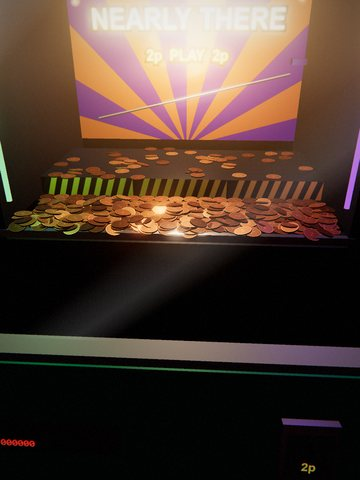
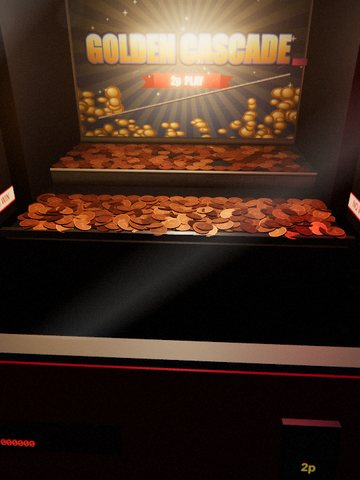
Any Second Now: a steel pusher and a printed backboard
The hazard stripes are gone: the shelf is brushed stainless steel with
scuffs, a dent or two and grime along the bottom, a rolled nose along its
edge and a worn plate on top, and nothing on it moves but the shelf. The
backboard is now glossy printed artwork in a metal frame: a deep sky, a
soft burst of light, painted heaps of treasure, the machine's name in fat
gold letters with an outline and a shadow, a "2p PLAY" ribbon, sparkles,
the print's dot screen, faded and grubby at the edges. The bulbs above it
are real little bulbs in sockets with a soft glow.

diff --git a/web/scenes/dream/pusher.js b/web/scenes/dream/pusher.js
@@ -189,11 +189,18 @@ export function createPusherScene({ mobile, seed }) {
   add(new THREE.BoxGeometry(W, 0.16, 0.01), new THREE.MeshStandardMaterial({ color: '#141418', metalness: 0.5, roughness: 0.5 }), 0, -0.09, ZEDGE + 0.012);
   // the shelf
   const shelf = new THREE.Group(); S.add(shelf);
-  const shelfTop = add(new THREE.BoxGeometry(W, H1, SHELF_D), new THREE.MeshStandardMaterial({ color: '#2a2832', metalness: 0.6, roughness: 0.4 }), 0, H1 / 2, -SHELF_D / 2, shelf);
-  const stripeTex = canvasTexture(S, 256, 32, (g, w, h) => { for (let k = 0; k < 16; k++) { g.fillStyle = k % 2 ? '#ffd040' : '#202024'; g.beginPath(); g.moveTo(k * 16, h); g.lineTo(k * 16 + 16, h); g.lineTo(k * 16 + 32, 0); g.lineTo(k * 16 + 16, 0); g.fill(); } });
-  stripeTex.wrapS = THREE.RepeatWrapping; stripeTex.repeat.set(3, 1);
-  const face = add(new THREE.PlaneGeometry(W, H1), new THREE.MeshStandardMaterial({ map: stripeTex, metalness: 0.3, roughness: 0.5, emissive: '#3a2a00', emissiveMap: stripeTex }), 0, H1 / 2, 0.0005, shelf);
-  void shelfTop; void face;
+  // the pusher: brushed stainless steel, years of coins dragged across it (scuffs, a dent or two, grime along the bottom)
+  const steelTex = canvasTexture(S, 1024, 96, (g, w, h) => {
+    g.fillStyle = '#a4a6ac'; g.fillRect(0, 0, w, h);
+    for (let k = 0; k < 2600; k++) { const v = Math.random() < 0.5 ? 255 : 0; g.fillStyle = `rgba(${v},${v},${v},${0.03 + Math.random() * 0.06})`; g.fillRect(Math.random() * w, Math.random() * h, 30 + Math.random() * 200, 1); }
+    for (let k = 0; k < 40; k++) { g.strokeStyle = `rgba(40,36,30,${0.08 + Math.random() * 0.15})`; g.lineWidth = 1; g.beginPath(); const x = Math.random() * w, y = Math.random() * h; g.moveTo(x, y); g.lineTo(x + (Math.random() - 0.3) * 60, y + (Math.random() - 0.5) * 8); g.stroke(); }
+    for (let k = 0; k < 4; k++) { const x = Math.random() * w, y = h * (0.3 + Math.random() * 0.4); const gr = g.createRadialGradient(x - 3, y - 3, 1, x, y, 12); gr.addColorStop(0, 'rgba(255,255,255,.25)'); gr.addColorStop(0.6, 'rgba(0,0,0,.18)'); gr.addColorStop(1, 'rgba(0,0,0,0)'); g.fillStyle = gr; g.fillRect(x - 14, y - 14, 28, 28); }
+    const gr = g.createLinearGradient(0, h * 0.55, 0, h); gr.addColorStop(0, 'rgba(60,40,20,0)'); gr.addColorStop(1, 'rgba(60,40,20,.55)'); g.fillStyle = gr; g.fillRect(0, 0, w, h);
+  });
+  const steel = new THREE.MeshStandardMaterial({ color: '#ffffff', map: steelTex, metalness: 0.9, roughness: 0.36, envMapIntensity: 0.9 });
+  const steelTopTex = S.keep(steelTex.clone()); steelTopTex.needsUpdate = true; steelTopTex.wrapS = steelTopTex.wrapT = THREE.RepeatWrapping; steelTopTex.repeat.set(1, 3);
+  add(new THREE.BoxGeometry(W, H1, SHELF_D), [steel, steel, new THREE.MeshStandardMaterial({ color: '#8a8c92', map: steelTopTex, metalness: 0.85, roughness: 0.42, envMapIntensity: 0.7 }), steel, steel, steel], 0, H1 / 2, -SHELF_D / 2, shelf);
+  const nose = add(new THREE.CylinderGeometry(0.0035, 0.0035, W, 12), steel, 0, H1 - 0.0035, 0.0005, shelf); nose.rotation.z = Math.PI / 2;
   // side walls with neon tubes; the gutters (dark slots at the front corners, where the house's share goes)
   const noWinM = new THREE.MeshStandardMaterial({ map: canvasTexture(S, 256, 64, (g, w, h) => { g.fillStyle = '#f2ece0'; g.fillRect(0, 0, w, h); g.fillStyle = '#c81e2a'; g.fillRect(0, 0, w, 6); g.fillRect(0, h - 6, w, 6); g.font = 'bold 40px sans-serif'; g.textAlign = 'center'; g.textBaseline = 'middle'; g.fillText('NO WIN', w / 2, h / 2 + 2); }), roughness: 0.7, emissive: '#ffffff', emissiveIntensity: 0.08 });
   noWinM.emissiveMap = noWinM.map;
@@ -211,13 +218,37 @@ export function createPusherScene({ mobile, seed }) {
   // the backboard: a sunburst, the machine's name, a ring of bulbs
   const NAMES = ['GOLDEN CASCADE', 'PENNY TOWER', 'TREASURE TIDE', 'COPPER COAST', 'MEGA PUSH', 'LUCKY LEDGE', 'THE BIG DROP', 'NEARLY THERE'];
   const mname = pick(NAMES), sun = pick([['#c81e3a', '#ffcf3a'], ['#1e5ac8', '#ffd84a'], ['#7a1ec8', '#ff8a3a']]);
-  const boardTex = canvasTexture(S, 512, 320, (g, w, h) => {
-    for (let k = 0; k < 24; k++) { const a0 = (k / 24) * TAU, a1 = ((k + 1) / 24) * TAU; g.fillStyle = k % 2 ? sun[0] : sun[1]; g.beginPath(); g.moveTo(w / 2, h * 1.05); g.arc(w / 2, h * 1.05, w * 1.2, a0, a1); g.fill(); }
-    g.fillStyle = 'rgba(0,0,0,.35)'; g.fillRect(0, 0, w, h);
-    g.font = 'bold 54px sans-serif'; g.textAlign = 'center'; g.lineWidth = 10; g.strokeStyle = '#2a0a10'; g.strokeText(mname, w / 2, 90); g.fillStyle = '#fff4d0'; g.fillText(mname, w / 2, 90);
-    g.font = 'bold 30px sans-serif'; g.strokeText('2p  PLAY  2p', w / 2, 150); g.fillStyle = '#ffd84a'; g.fillText('2p  PLAY  2p', w / 2, 150);
+  // printed artwork on a glossy panel, a bit faded and grubby from years in the arcade: a deep sky, a soft burst of
+  // light, a heap of painted treasure, the name in fat gold letters, a ribbon, sparkles
+  const BG = { '#c81e3a': ['#2a0612', '#6a1024'], '#1e5ac8': ['#06122e', '#143a7a'], '#7a1ec8': ['#14062a', '#3e1270'] }[sun[0]];
+  const FONT = "Impact, 'Arial Black', sans-serif";
+  const boardTex = canvasTexture(S, 1024, 640, (g, w, h) => {
+    const bg = g.createLinearGradient(0, 0, 0, h); bg.addColorStop(0, BG[0]); bg.addColorStop(1, BG[1]); g.fillStyle = bg; g.fillRect(0, 0, w, h);
+    g.globalAlpha = 0.12; for (let k = 0; k < 32; k++) { const a0 = (k / 32) * TAU, a1 = ((k + 0.5) / 32) * TAU; g.fillStyle = sun[1]; g.beginPath(); g.moveTo(w / 2, h * 0.42); g.arc(w / 2, h * 0.42, w, a0, a1); g.fill(); } g.globalAlpha = 1;
+    const glow = g.createRadialGradient(w / 2, h * 0.42, 10, w / 2, h * 0.42, w * 0.45); glow.addColorStop(0, 'rgba(255,220,140,.35)'); glow.addColorStop(1, 'rgba(255,220,140,0)'); g.fillStyle = glow; g.fillRect(0, 0, w, h);
+    for (let y = 8; y < h; y += 14) for (let x = 8 + (y % 28 ? 7 : 0); x < w; x += 14) { g.fillStyle = 'rgba(255,255,255,.035)'; g.beginPath(); g.arc(x, y, 2.2, 0, TAU); g.fill(); }
+    const coin = (x, y, r, tilt) => { g.save(); g.translate(x, y); g.scale(1, tilt); const cg = g.createRadialGradient(-r * 0.35, -r * 0.35, r * 0.1, 0, 0, r); cg.addColorStop(0, '#fff2b8'); cg.addColorStop(0.45, '#e8b040'); cg.addColorStop(1, '#8a5a14'); g.fillStyle = cg; g.beginPath(); g.arc(0, 0, r, 0, TAU); g.fill(); g.strokeStyle = 'rgba(80,40,0,.6)'; g.lineWidth = r * 0.12; g.beginPath(); g.arc(0, 0, r * 0.78, 0, TAU); g.stroke(); g.restore(); };
+    for (let k = 0; k < 70; k++) { const side = k % 2 ? 1 : -1, x = w / 2 + side * (w * 0.26 + Math.random() * w * 0.26), y = h * (0.66 + Math.random() * 0.36); coin(x, y, 18 + Math.random() * 22, 0.45 + Math.random() * 0.5); }
+    for (let k = 0; k < 40; k++) coin(w * (0.15 + Math.random() * 0.7), h * (0.86 + Math.random() * 0.16), 16 + Math.random() * 18, 0.4 + Math.random() * 0.3);
+    let fs = 132; g.font = `900 ${fs}px ${FONT}`; while (g.measureText(mname).width > w * 0.9 && fs > 60) { fs -= 4; g.font = `900 ${fs}px ${FONT}`; }
+    g.textAlign = 'center'; g.textBaseline = 'middle'; const ty = h * 0.4;
+    g.fillStyle = 'rgba(0,0,0,.55)'; g.fillText(mname, w / 2 + 8, ty + 10);
+    g.lineJoin = 'round'; g.lineWidth = 22; g.strokeStyle = '#1a0a04'; g.strokeText(mname, w / 2, ty);
+    g.lineWidth = 10; g.strokeStyle = sun[0]; g.strokeText(mname, w / 2, ty);
+    const gold = g.createLinearGradient(0, ty - fs / 2, 0, ty + fs / 2); gold.addColorStop(0, '#fffbe0'); gold.addColorStop(0.35, '#ffd860'); gold.addColorStop(0.6, '#e09a20'); gold.addColorStop(1, '#a8600c'); g.fillStyle = gold; g.fillText(mname, w / 2, ty);
+    g.save(); g.beginPath(); g.rect(0, ty - fs / 2, w, fs * 0.28); g.clip(); g.fillStyle = 'rgba(255,255,255,.35)'; g.fillText(mname, w / 2, ty); g.restore();
+    const ry = h * 0.6, rw = 300; g.fillStyle = '#8a0c18';
+    for (const sx of [-1, 1]) { g.beginPath(); g.moveTo(w / 2 + sx * (rw / 2 - 20), ry - 28); g.lineTo(w / 2 + sx * (rw / 2 + 60), ry - 22); g.lineTo(w / 2 + sx * (rw / 2 + 36), ry + 4); g.lineTo(w / 2 + sx * (rw / 2 + 60), ry + 30); g.lineTo(w / 2 + sx * (rw / 2 - 20), ry + 26); g.fill(); }
+    const rg = g.createLinearGradient(0, ry - 34, 0, ry + 34); rg.addColorStop(0, '#f0303c'); rg.addColorStop(1, '#a01020'); g.fillStyle = rg; g.fillRect(w / 2 - rw / 2, ry - 34, rw, 62);
+    g.font = `900 46px ${FONT}`; g.lineWidth = 6; g.strokeStyle = '#4a0408'; g.strokeText('2p  PLAY', w / 2, ry - 2); g.fillStyle = '#fff4d8'; g.fillText('2p  PLAY', w / 2, ry - 2);
+    for (let k = 0; k < 26; k++) { const x = Math.random() * w, y = Math.random() * h * 0.7, r = 4 + Math.random() * 10; g.fillStyle = 'rgba(255,250,220,.8)'; g.beginPath(); g.moveTo(x, y - r); g.lineTo(x + r * 0.22, y - r * 0.22); g.lineTo(x + r, y); g.lineTo(x + r * 0.22, y + r * 0.22); g.lineTo(x, y + r); g.lineTo(x - r * 0.22, y + r * 0.22); g.lineTo(x - r, y); g.lineTo(x - r * 0.22, y - r * 0.22); g.fill(); }
+    g.fillStyle = 'rgba(200,190,170,.06)'; g.fillRect(0, 0, w, h);
+    const vg = g.createRadialGradient(w / 2, h / 2, h * 0.3, w / 2, h / 2, w * 0.65); vg.addColorStop(0, 'rgba(0,0,0,0)'); vg.addColorStop(1, 'rgba(10,6,2,.55)'); g.fillStyle = vg; g.fillRect(0, 0, w, h);
+    for (let k = 0; k < 2500; k++) { g.fillStyle = Math.random() < 0.5 ? `rgba(0,0,0,${Math.random() * 0.06})` : `rgba(255,255,255,${Math.random() * 0.06})`; g.fillRect(Math.random() * w, Math.random() * h, 2, 2); }
+    g.strokeStyle = 'rgba(255,255,255,.12)'; for (let k = 0; k < 12; k++) { g.beginPath(); const x = Math.random() * w, y = Math.random() * h; g.moveTo(x, y); g.lineTo(x + (Math.random() - 0.5) * 140, y + (Math.random() - 0.5) * 30); g.stroke(); }
   });
-  add(new THREE.PlaneGeometry(W, 0.32), new THREE.MeshStandardMaterial({ map: boardTex, emissive: '#ffffff', emissiveMap: boardTex, emissiveIntensity: 0.1, roughness: 0.7 }), 0, 0.2, ZBACK - 0.005);
+  add(new THREE.PlaneGeometry(W, 0.32), new THREE.MeshStandardMaterial({ map: boardTex, emissive: '#ffffff', emissiveMap: boardTex, emissiveIntensity: 0.08, roughness: 0.55, metalness: 0, envMapIntensity: 0.45 }), 0, 0.2, ZBACK - 0.005);
+  for (const [fw, fh, fx, fy] of [[W + 0.02, 0.012, 0, 0.36], [W + 0.02, 0.012, 0, 0.04], [0.012, 0.33, -HALF - 0.004, 0.2], [0.012, 0.33, HALF + 0.004, 0.2]]) add(new THREE.BoxGeometry(fw, fh, 0.012), steel, fx, fy, ZBACK + 0.001); // its frame
   // the rail the coins roll down
   const railV = new THREE.Vector3().subVectors(RAIL1, RAIL0), rail = add(new THREE.CylinderGeometry(0.0025, 0.0025, railV.length(), 8), chrome, 0, 0, 0);
   rail.position.copy(RAIL0).add(RAIL1).multiplyScalar(0.5); rail.position.y -= R + 0.002; rail.quaternion.setFromUnitVectors(new THREE.Vector3(0, 1, 0), railV.clone().normalize());
@@ -227,8 +258,14 @@ export function createPusherScene({ mobile, seed }) {
   const bulbTex = canvasTexture(S, 64, 64, (g, w, h) => { const gr = g.createRadialGradient(w / 2, h / 2, 0, w / 2, h / 2, w / 2); gr.addColorStop(0, 'rgba(255,255,255,1)'); gr.addColorStop(0.25, 'rgba(255,255,255,.6)'); gr.addColorStop(1, 'rgba(255,255,255,0)'); g.fillStyle = gr; g.fillRect(0, 0, w, h); });
   const bulbs = [];
   const bulbCols = ['#ffd860', '#ff6a8a', '#ffd860', '#6ad0ff'];
-  const addBulb = (x, y, z, size, k) => { const sp = new THREE.Sprite(new THREE.SpriteMaterial({ map: bulbTex, color: bulbCols[k % 4], blending: THREE.AdditiveBlending, depthWrite: false, transparent: true })); sp.position.set(x, y, z); sp.scale.set(size, size, 1); S.add(sp); bulbs.push({ sp, k, base: new THREE.Color(bulbCols[k % 4]) }); };
-  for (let k = 0; k < 22; k++) { const a = Math.PI * (k / 21); addBulb(Math.cos(a) * -0.23, 0.36 + Math.sin(a) * 0.04 - 0.04, ZBACK + 0.002, 0.016, k); }
+  const socketM = new THREE.MeshStandardMaterial({ color: '#2a2a2e', metalness: 0.6, roughness: 0.5 }), socketG = new THREE.CylinderGeometry(0.0055, 0.0065, 0.006, 10), bulbG = new THREE.SphereGeometry(0.0048, 10, 8);
+  const addBulb = (x, y, z, size, k) => { // a real little bulb in its socket, with a soft glow
+    const sock = new THREE.Mesh(socketG, socketM); sock.rotation.x = Math.PI / 2; sock.position.set(x, y, z + 0.003); S.add(sock);
+    const bm = new THREE.MeshBasicMaterial({ color: bulbCols[k % 4], toneMapped: false }); const bulb = new THREE.Mesh(bulbG, bm); bulb.position.set(x, y, z + 0.008); S.add(bulb);
+    const sp = new THREE.Sprite(new THREE.SpriteMaterial({ map: bulbTex, color: bulbCols[k % 4], blending: THREE.AdditiveBlending, depthWrite: false, transparent: true, opacity: 0.55 })); sp.position.set(x, y, z + 0.01); sp.scale.set(size * 1.3, size * 1.3, 1); S.add(sp);
+    bulbs.push({ sp, bm, k, base: new THREE.Color(bulbCols[k % 4]) });
+  };
+  for (let k = 0; k < 20; k++) addBulb(-HALF + 0.01 + k * ((W - 0.02) / 19), 0.375, ZBACK + 0.001, 0.016, k);
   for (let k = 0; k < 18; k++) addBulb(-0.32 + k * (0.64 / 17), 0.52, 0.31, 0.022, k + 1);
   // the cabinet round the glass: painted panels, chrome trim, the marquee, the coin slot, the counter, the tray
   const cabCol = pick(['#a0182a', '#1a3a9a', '#6a1aa0', '#0a7a5a']);
@@ -315,11 +352,10 @@ export function createPusherScene({ mobile, seed }) {
     shake = Math.max(0, shake - dt * 0.35);
     drawCoins();
     shelf.position.z = zf;
-    stripeTex.offset.x = (t * 0.2) % 1;
     drawLed();
     // the lights: bulbs chasing round, slower and softer as the night goes on; the arcade dimming
     const chase = t * (2 + 6 * e);
-    for (const b of bulbs) { const on = (Math.floor(chase) + b.k) % 4 === 0 || (tease > 0.2 && Math.sin(t * 20 + b.k) > 0); b.sp.material.color.copy(b.base).multiplyScalar(on ? 0.85 : 0.12 + 0.1 * e); }
+    for (const b of bulbs) { const on = (Math.floor(chase) + b.k) % 4 === 0 || (tease > 0.2 && Math.sin(t * 20 + b.k) > 0); b.sp.material.color.copy(b.base).multiplyScalar(on ? 0.7 : 0.04); b.bm.color.copy(b.base).multiplyScalar(on ? 1.1 : 0.22 + 0.1 * e); }
     tease = Math.max(0, tease - dt * 0.3);
     const dim = 0.35 + 0.65 * sstep(0.2, 0.75, e);
     for (const g of glows) g.color.setScalar(0.6 * dim);

diff --git a/web/sw.js b/web/sw.js
@@ -1,5 +1,5 @@
 // Offline support: network first (so updates show straight away), cached copy when offline.
-const CACHE = 'lullwave-v37';
+const CACHE = 'lullwave-v38';
 const J = './vendor/three/examples/jsm/';
 const CORE = ['./', './index.html', './main.js', './audio.js', './render.js',
   './music/voices.js', './music/cave.js', './music/drive.js', './music/ocean.js', './music/aurora.js', './music/rain.js', './music/space.js', './music/disco.js', './music/nature.js', './music/eventing.js', './music/cotswold.js', './scenes/cave.js', './scenes/drive.js', './scenes/ocean.js', './scenes/aurora.js', './scenes/rain.js', './scenes/space.js', './scenes/disco.js', './scenes/country.js', './scenes/eventing.js', './scenes/cotswold.js', './scenes/kit.js', './scenes/tabby.js', './scenes/dream/penny-life.js', J + 'loaders/GLTFLoader.js', './models/penny/ArmChair_01.glb', './models/penny/ClassicNightstand_01.glb', './models/penny/Ottoman_01.glb', './models/penny/Sofa_01.glb', './models/penny/potted_plant_04.glb', './models/penny/throw_pillows_01.glb', './models/penny/vintage_grandfather_clock_01.glb', './models/penny/vintage_oil_lamp.glb', './models/penny/wicker_basket_01.glb', './models/penny/wooden_bookshelf_worn.glb',  './scenes/figures.js', './scenes/interior.js', './music/ambient.js', './music/profiles.js', './music/bespoke.js', './music/xmas.js', './music/choirsong.js', './music/pizzeria.js', './music/feversong.js', './music/canalsong.js', './music/pennysong.js', './scenes/dream/meadow.js', './scenes/dream/estate.js', './scenes/dream/woolpack.js', './scenes/dream/canal.js', './scenes/dream/stables.js', './scenes/dream/market.js', './scenes/dream/trail.js', './scenes/dream/choir.js', './scenes/dream/penny.js', './scenes/dream/pizza.js', './scenes/dream/lost.js', './scenes/dream/stardome.js', './scenes/dream/bakery.js', './scenes/dream/fever.js', './scenes/dream/sheep.js', './music/sheepsong.js', './scenes/dream/pixel.js', './music/chipsong.js', './scenes/dream/sands.js', './music/sandsong.js', './scenes/dream/snowstorm.js', './music/snowsong.js', './scenes/dream/saysno.js', './scenes/dream/nobot-talk.js', './music/saysnosong.js', './scenes/dream/train.js', './scenes/dream/train-journey.js', './scenes/dream/train-cars.js', './music/trainsong.js', './scenes/dream/pusher.js', './music/pushersong.js',

diff --git a/README.md b/README.md
@@ -117,7 +117,8 @@ down, the lamp clicks off, and you lie down in the berth under a tartan blanket 
 blind.
 
 **Any Second Now** is a 2p coin pusher in a seaside amusement arcade late at night, made up fresh each time (its
-name on the sunburst backboard, its colours, its neon). Coins drop through the slot, roll down the rail and land on
+name in fat gold letters on the printed backboard, faded and grubby from years in the arcade, its colours, its
+neon). The pusher is scuffed, brushed stainless steel. Coins drop through the slot, roll down the rail and land on
 the moving shelf, which slides in and out, pushing the pile towards the edge. The coins at the front hang further
 and further over the lip, teetering with every push. Any second now. They never fall. The machine takes every coin
 (the top shelf full of them from the start, coins tipping off it onto the pile below with every stroke; coins
